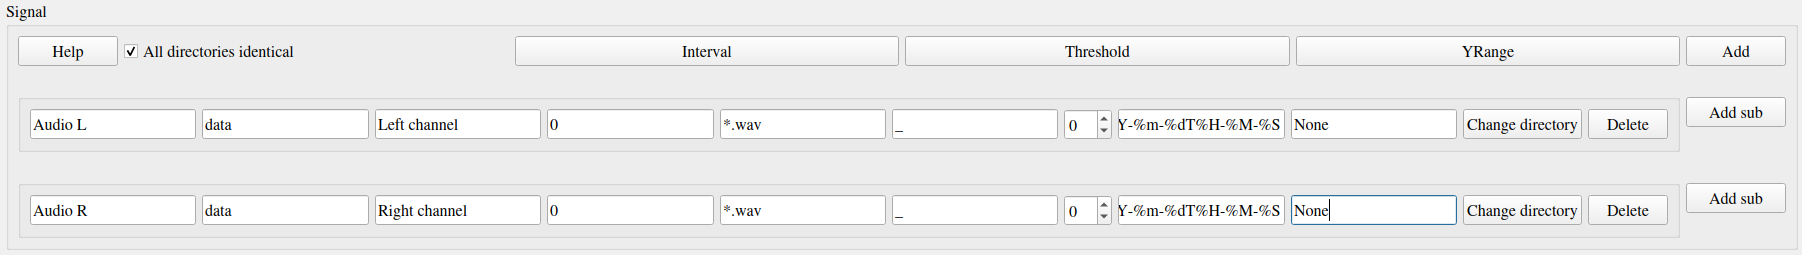
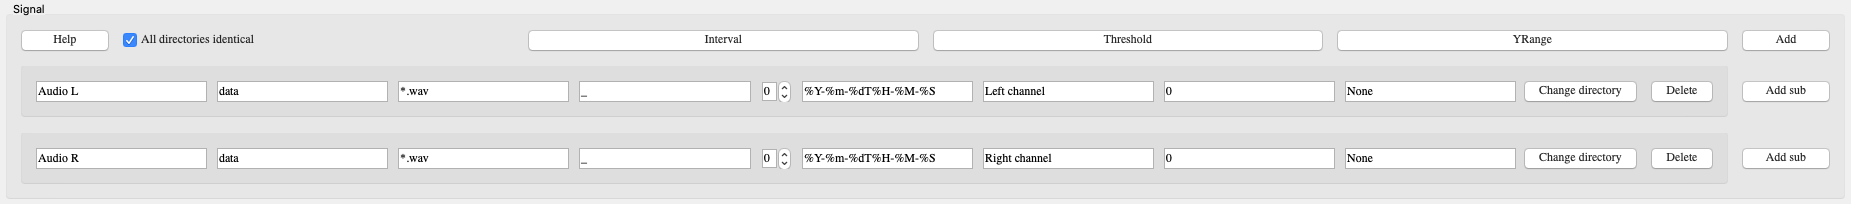
develop - update documentation with new signal configuration list order

diff --git a/visiannot/configuration/ConfigurationWindow.py b/visiannot/configuration/ConfigurationWindow.py
@@ -285,7 +285,7 @@ class ConfigurationWindow():
                     {"minimum": 0, "maximum": 100}
                 ])
             ],
-            [['', '*', '_', 0, '%Y-%m-%dT%H-%M-%S', 0, '', (0, 0, 0, 50)]],
+            [['', '*', '_', 0, '%Y-%m-%dT%H-%M-%S', '', 0, (0, 0, 0, 50)]],
             help_text="1. Directory\
             2. File pattern\
             3. Timestamp delimiter\

diff --git a/doc/source/userguide-configuration.rst b/doc/source/userguide-configuration.rst
@@ -72,16 +72,16 @@ See section :ref:`signal` for details about signal configuration. In a Python sc
     signal_dict = {}
 
     signal_dict["ECG"] = [
-        ["dir/to/sig", "ecg", 500, "data_*.h5", '_', 1, 'posix', None],
+        ["dir/to/sig", "data_*.h5", '_', 1, 'posix', "ecg", 500, None],
         [
-            "dir/to/sig", "tqrs", 0, "tqrs_*.h5", '_', 0, '%Y%m%dT%H%M%S',
+            "dir/to/sig", "tqrs_*.h5", '_', 0, '%Y%m%dT%H%M%S', "tqrs", 0,
             {'pen': None, "symbol": '+', "symbolPen": 'r', "symbolSize": 10}
         ]
     ]
 
     signal_dict["Respiration"] = [
         [
-            "dir/to/sig", "resp", 62.5, "data_*.h5", '_', 1, 'posix',
+            "dir/to/sig", "data_*.h5", '_', 1, 'posix', "resp", 62.5,
             {'pen': {'color': 'm', 'width': 1}}
         ]
     ]
@@ -93,21 +93,21 @@ There are two signal widgets ("ECG" and "Repsiration"), with two signals in the 
     [[ECG]]
     [[[k0]]]
     k0 = 'dir/to/sig'
-    k1 = 'ecg'
-    k2 = 500
-    k3 = 'data_*.h5'
-    k4 = '_'
-    k5 = 1
-    k6 = 'posix'
+    k1 = 'data_*.h5'
+    k2 = '_'
+    k3 = 1
+    k4 = 'posix'
+    k5 = 'ecg'
+    k6 = 500
     k7 = None
     [[[k1]]]
     k0 = 'dir/to/sig'
-    k1 = 'tqrs'
-    k2 = 0
-    k3 = 'tqrs_*.h5'
-    k4 = '_'
-    k5 = 0
-    k6 = '%Y%m%dT%H%M%S'
+    k1 = 'tqrs_*.h5'
+    k2 = '_'
+    k3 = 0
+    k4 = '%Y%m%dT%H%M%S'
+    k5 = 'tqrs'
+    k6 = 0
     [[[[k7]]]]
     pen = None
     symbol = '+'
@@ -117,12 +117,12 @@ There are two signal widgets ("ECG" and "Repsiration"), with two signals in the 
     [[Respiration]]
     [[[k0]]]
     k0 = 'dir/to/sig'
-    k1 = 'resp'
-    k2 = 62.5
-    k3 = 'data_*.h5'
-    k4 = '_'
-    k5 = 1
-    k6 = 'posix'
+    k1 = 'data_*.h5'
+    k2 = '_'
+    k3 = 1
+    k4 = 'posix'
+    k5 = 'resp'
+    k6 = 62.5
     [[[[k7]]]]
     [[[[[pen]]]]]
     color = 'm'
@@ -131,8 +131,8 @@ There are two signal widgets ("ECG" and "Repsiration"), with two signals in the 
 Same configuration with a more compact writing::
 
     [Signal]
-    ECG = [['dir/to/sig', 'ecg', '500', 'data_*.h5', '_', 1, 'posix', None], ['dir/to/sig', 'tqrs', 0, 'tqrs_*.h5', '_', 0, '%Y%m%dT%H%M%S', {'pen': None, 'symbol': '+', 'symbolPen': 'r', 'symbolSize': 10}]]
-    Respiration = [['dir/to/sig', 'resp', 62.5, 'data_*.h5', '_', 1, 'posix', {'pen': {'color': 'm', 'width': 1}}]]
+    ECG = [['dir/to/sig', 'data_*.h5', '_', 1, 'posix', 'ecg', '500', None], ['dir/to/sig', 'tqrs_*.h5', '_', 0, '%Y%m%dT%H%M%S', 'tqrs', 0, {'pen': None, 'symbol': '+', 'symbolPen': 'r', 'symbolSize': 10}]]
+    Respiration = [['dir/to/sig', 'data_*.h5', '_', 1, 'posix', 'resp', 62.5, {'pen': {'color': 'm', 'width': 1}}]]
 
 
 YRange
@@ -184,8 +184,8 @@ See section :ref:`intervals` for details about interval configuration. In a Pyth
 
     interval_dict = {}
     interval_dict["ECG"] = [
-        ["dir/to/interval", "", 500, "I0_*.txt", '_', 0, '%Y%m%dT%H%M%S', (0, 255, 0, 50)],
-        ["dir/to/interval", "", 500, "I1_*.txt", '_', 0, '%Y%m%dT%H%M%S', (255, 200, 0, 50)]
+        ["dir/to/interval", "I0_*.txt", '_', 0, '%Y%m%dT%H%M%S', "", 500, (0, 255, 0, 50)],
+        ["dir/to/interval", "I1_*.txt", '_', 0, '%Y%m%dT%H%M%S', "", 500, (255, 200, 0, 50)]
     ]
 
 Intervals must be plotted only the signal widget "ECG" with two interval types. In the configuration file, we create a section named "Interval", composed of as much sub-sections as signal widgets on which to plot intervals. Each sub-section is composed of as much sub-sub-sections as interval types to plot on the corresponding signal widget. Here is the equivalent interval configuration::
@@ -194,27 +194,27 @@ Intervals must be plotted only the signal widget "ECG" with two interval types. 
     [[ECG]]
     [[[k0]]]
     k0 = "path/to/interval.txt"
-    k1 = ''
-    k2 = "I0_*.txt"
-    k3 = 500
-    k4 = '_'
-    k5 = 0
-    k6 = '%Y%m%dT%H%M%S'
+    k1 = "I0_*.txt"
+    k2 = '_'
+    k3 = 0
+    k4 = '%Y%m%dT%H%M%S'
+    k5 = ''
+    k6 = 500
     k7 = [0, 255, 0, 50]
     [[[k1]]]
     k0 = "path/to/intervalbis.txt"
-    k1 = ''
-    k2 = "I1_*.txt"
-    k3 = 500
-    k4 = '_'
-    k5 = 0
-    k6 = '%Y%m%dT%H%M%S'
+    k1 = "I1_*.txt"
+    k2 = '_'
+    k3 = 0
+    k4 = '%Y%m%dT%H%M%S'
+    k5 = ''
+    k6 = 500
     k7 = [255, 200, 0, 50]
 
 Same configuration with a more compact writing::
 
     [Interval]
-    ECG = [["dir/to/interval", "", 500, "I0_*.txt", '_', 0, '%Y%m%dT%H%M%S', [0, 255, 0, 50]], ["dir/to/interval", "", 500, "I1_*.txt", '_', 0, '%Y%m%dT%H%M%S', [255, 200, 0, 50]]]
+    ECG = [["dir/to/interval", "I0_*.txt", '_', 0, '%Y%m%dT%H%M%S', "", 500, [0, 255, 0, 50]], ["dir/to/interval", "I1_*.txt", '_', 0, '%Y%m%dT%H%M%S', "", 500, [255, 200, 0, 50]]]
 
 
 Events annotation
@@ -335,12 +335,12 @@ The user must click on the push button "Add" in order to create a new signal con
 
 * Signal widget ID (used as the Y axis label on the plot)
 * Directory where to find the signal files,
-* Key to access the data in the file (in case of .h5 or .mat, set it to ``''`` otherwise), also used a legend,
-* Signal frequency (may also be a string with path to the frequency attribute in case of h5 file), set it to ``0`` in case of non-regularly sampled signal,
 * Pattern to find the signal files,
 * Delimiter to get the beginning datetime in the signal file name,
 * Position of the beginning datetime in the signal file name, according to the delimiter,
 * Format of the beginning datetime in the signal file name (``"posix"`` or format compliant with ``datetime``, see https://docs.python.org/3/library/datetime.html#strftime-and-strptime-format-codes),
+* Key to access the data in the file (in case of .h5 or .mat, set it to ``''`` otherwise), also used a legend,
+* Signal frequency (may also be a string with path to the frequency attribute in case of h5 file), set it to ``0`` in case of non-regularly sampled signal,
 * Dictionary with plot style.
 
 :numref:`fig-config-signal` shows an example of signal configuration with two plots and three signals. The first widget (resp. second one) contains two signals plots (resp. one signal plot) and would give a display similar to :numref:`fig-example-signal` and :numref:`fig-example-signal-zoom`.
@@ -397,12 +397,12 @@ Similarly to the threshold configuration, the user can manage the interval confi
 Once an interval configuration is added, there are 8 fields to fill in:
 
 * Directory where to find the intervals files,
-* Key to access the data in the file (in case of .h5 or .mat, set it to ``''`` otherwise),
-* Frequency (in case of a time series, may also be a string with path to the frequency attribute in case of h5 file),
 * Pattern to find the intervals files,
 * Delimiter to get the beginning datetime in the signal file name,
 * Position of the beginning datetime in the signal file name, according to the delimiter,
 * Format of the beginning datetime in the signal file name (``"posix"`` or format compliant with ``datetime``, see https://docs.python.org/3/library/datetime.html#strftime-and-strptime-format-codes),
+* Key to access the data in the file (in case of .h5 or .mat, set it to ``''`` otherwise),
+* Frequency (in case of a time series, may also be a string with path to the frequency attribute in case of h5 file),
 * Color of the interval (RGBA).
 
 .. _fig-config-intervals:
